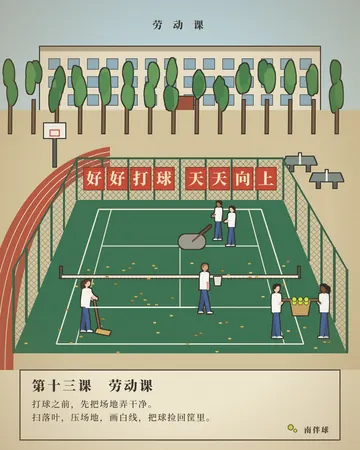
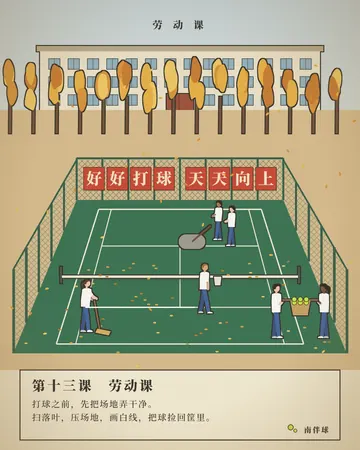
课本插画四季系列：精简场景（去跑道、篮球架、乒乓台），新增 184 春天、185 下雪了；182 改秋天
Claude-Session: https://claude.ai/code/session_014vi3eY4PQACXjZBSA9oy8y

diff --git a/marketing/textbook.py b/marketing/textbook.py
@@ -44,36 +44,45 @@ def lesson(p, no, title, lines, y=1110):
              f'<text x="990" y="{y + 188}" text-anchor="end" font-family="{SERIF}" font-weight="900" font-size="22" letter-spacing="4" fill="{INK}">南伴球</text>')
 
 
-def schoolyard(p, r, slogan_text='好好打球天天向上'):
-    """高机位远景的学校运动场：教学楼、白杨、红跑道弯道、篮球架、乒乓球台、
-    一块被围网围住的南伴绿网球场；八个大字挂在远端围网上，正对着看的人。
-    返回 (球场透视函数)：T(u, v) 把场地坐标 (u 0..1 左右, v 0..1 远近) 映射到画面。"""
+SEASON = {
+    'spring': dict(sky=('#C8E0EC', '#EEEAD4'), ground='#DCD2AC', trees=['#F2C2CC', '#F8DCE2', '#FFFFFF', '#A8D07A'], bare=False),
+    'summer': dict(sky=('#8EC4E8', '#E4ECDC'), ground='#D8C8A0', trees=['#2E6A3A', '#3E7A44', '#4E8A4E'], bare=False),
+    'autumn': dict(sky=('#C8D8E0', '#F0E2C0'), ground='#D8BC8C', trees=['#E8B040', '#D89030', '#F0C860', '#C8782A'], bare=False),
+    'winter': dict(sky=('#C8D0D8', '#EEF0F0'), ground='#F6F8F6', trees=[], bare=True),
+}
+
+
+def schoolyard(p, r, season='summer', slogan_text='好好打球天天向上'):
+    """高机位远景的学校网球场（只留教学楼、一排树、围网球场和八块标语牌，细节做足）。
+    season：spring / summer / autumn / winter。返回透视函数 T(u, v)。"""
     from lin import blob, ink
-    FY, NY, FL, FR, NL, NR = 600, 1060, 230, 850, 40, 1040          # 球场远边 / 近边
+    S = SEASON[season]
+    FY, NY, FL, FR, NL, NR = 600, 1060, 230, 850, 40, 1040
     T = lambda u, v: (FL + (FR - FL) * u + ((NL + (NR - NL) * u) - (FL + (FR - FL) * u)) * v, FY + (NY - FY) * v)
-    p.append('<defs><linearGradient id="sky_t" x1="0" y1="0" x2="0" y2="1"><stop offset="0" stop-color="#B8D4E0"/><stop offset="1" stop-color="#E8E4CC"/></linearGradient></defs>')
+    p.append(f'<defs><linearGradient id="sky_t" x1="0" y1="0" x2="0" y2="1"><stop offset="0" stop-color="{S["sky"][0]}"/><stop offset="1" stop-color="{S["sky"][1]}"/></linearGradient></defs>')
     p.append('<rect width="1080" height="1110" fill="url(#sky_t)"/>')
-    # 教学楼（远处一长条）
-    p.append(outlined('<rect x="120" y="150" width="840" height="190" fill="#EDE4CC"/><rect x="120" y="140" width="840" height="14" fill="#B8A88A"/>'))
+    # 教学楼：一排窗，正中一个门厅，屋檐一道线
+    p.append(outlined('<rect x="120" y="150" width="840" height="190" fill="#EDE4CC"/><rect x="110" y="138" width="860" height="16" fill="#B8A88A"/>'))
     for row in range(3):
         for col in range(14):
-            p.append(f'<rect x="{146 + col * 58}" y="{176 + row * 54}" width="34" height="32" fill="#8EB0C0" stroke="{INK}" stroke-width="1.5"/>')
-    p.append(outlined('<rect x="500" y="290" width="80" height="50" fill="#9A4A34"/>'))
-    # 地面
-    p.append('<path d="M0 330 L1080 330 L1080 1110 L0 1110Z" fill="#D8C8A0"/>')
-    # 白杨一排
+            if 6 <= col <= 7 and row == 2:
+                continue
+            p.append(f'<rect x="{146 + col * 58}" y="{176 + row * 54}" width="34" height="32" fill="#8EB0C0" stroke="{INK}" stroke-width="1.5"/><line x1="{163 + col * 58}" y1="{176 + row * 54}" x2="{163 + col * 58}" y2="{208 + row * 54}" stroke="{INK}" stroke-width="1"/>')
+    p.append(outlined('<rect x="500" y="282" width="80" height="58" fill="#9A4A34"/><rect x="536" y="282" width="2" height="58" fill="#5A2A1A"/>'))
+    if season == 'winter':
+        p.append('<rect x="110" y="132" width="860" height="10" rx="4" fill="#FFFFFF"/>')
+    p.append(f'<path d="M0 330 L1080 330 L1080 1110 L0 1110Z" fill="{S["ground"]}"/>')
+    # 一排树
     tr = ''
     for x in range(30, 1080, 70):
-        tr += ink([(x, 400), (x + 1, 300)], 7, '#7A5A3A', 1, (0, 0)) + ''.join(blob(r, x + r.uniform(-10, 10), 260 + r.uniform(-50, 40), 16, 40, r.choice(['#4E8A4E', '#3E7A44', '#5E9A56']), 1) for _ in range(3))
+        tr += ink([(x, 400), (x + 1, 290)], 7, '#6A4A30', 1, (0, 0))
+        if S['bare']:
+            tr += ''.join(ink([(x, 330 - k * 14), (x + d * 26, 300 - k * 18)], 3, '#6A4A30', 1, (0, .6)) for k in range(4) for d in (-1, 1))
+        else:
+            tr += ''.join(blob(r, x + r.uniform(-10, 10), 260 + r.uniform(-50, 40), 16, 40, r.choice(S['trees']), 1) for _ in range(3))
     p.append(outlined(tr))
-    # 红跑道的一段弯道（左边）+ 白线
-    p.append('<path d="M-60 1110 C-60 700 120 470 330 440 L330 500 C170 520 40 720 40 1110Z" fill="#B8503A"/>')
-    for k in range(1, 4):
-        p.append(f'<path d="M{-60 + k*25} 1110 C{-60 + k*25} {700 + k*5} {120 + k*12} {470 + k*15} 330 {440 + k*15}" stroke="#F4EED8" stroke-width="2" fill="none"/>')
-    # 篮球架（左上）、乒乓球台（右边）
-    p.append(outlined(f'<rect x="160" y="380" width="8" height="120" fill="#5A5A5A"/><rect x="132" y="370" width="64" height="44" fill="#F4F2EA"/><rect x="150" y="390" width="28" height="18" fill="none" stroke="{RED}" stroke-width="3"/>'))
-    for x, y in [(900, 470), (980, 520)]:
-        p.append(outlined(f'<path d="M{x - 40} {y} L{x + 40} {y} L{x + 50} {y + 24} L{x - 50} {y + 24}Z" fill="#7A8A84"/><rect x="{x - 3}" y="{y - 10}" width="6" height="34" fill="#F4F2EA"/><rect x="{x - 30}" y="{y + 24}" width="10" height="20" fill="#5A5A5A"/><rect x="{x + 20}" y="{y + 24}" width="10" height="20" fill="#5A5A5A"/>'))
+    if S['bare']:
+        p.append(''.join(f'<ellipse cx="{x + r.uniform(-12, 12):.0f}" cy="{r.uniform(250, 330):.0f}" rx="10" ry="3" fill="#FFFFFF"/>' for x in range(30, 1080, 70) for _ in range(2)))
     # 球场（南伴绿）+ 白线
     poly = ' '.join(f'{a:.0f},{b:.0f}' for a, b in [T(0, 0), T(1, 0), T(1, 1), T(0, 1)])
     p.append(f'<polygon points="{poly}" fill="{GREEN}"/>')
@@ -86,10 +95,11 @@ def schoolyard(p, r, slogan_text='好好打球天天向上'):
     for u in (.18, .82):
         L(u, .06, u, .94, 3)
     L(.12, .06, .88, .06); L(.12, .94, .88, .94); L(.18, .3, .82, .3, 3); L(.18, .7, .82, .7, 3); L(.5, .3, .5, .7, 3)
+    # 球网：网带 + 网眼 + 两根立柱
     (a, b), (c, d) = T(.06, .5), T(.94, .5)
-    p.append(outlined(f'<line x1="{a:.0f}" y1="{b:.0f}" x2="{c:.0f}" y2="{d:.0f}" stroke="#F4EED8" stroke-width="7"/><rect x="{a - 4:.0f}" y="{b - 30:.0f}" width="6" height="34" fill="#4A4A4A"/><rect x="{c - 2:.0f}" y="{d - 30:.0f}" width="6" height="34" fill="#4A4A4A"/>'))
-    p.append(f'<g opacity=".55">' + ''.join(f'<line x1="{a + (c - a) * k / 60:.0f}" y1="{b:.0f}" x2="{a + (c - a) * k / 60:.0f}" y2="{b + 16:.0f}" stroke="{INK}" stroke-width="1"/>' for k in range(61)) + '</g>')
-    # 围网：远端一面（挂标语）+ 两侧（透视收向远处）
+    p.append(f'<g opacity=".5">' + ''.join(f'<line x1="{a + (c - a) * k / 70:.0f}" y1="{b:.0f}" x2="{a + (c - a) * k / 70:.0f}" y2="{b + 18:.0f}" stroke="{INK}" stroke-width="1"/>' for k in range(71)) + f'<line x1="{a:.0f}" y1="{b + 9:.0f}" x2="{c:.0f}" y2="{d + 9:.0f}" stroke="{INK}" stroke-width="1"/></g>')
+    p.append(outlined(f'<line x1="{a:.0f}" y1="{b:.0f}" x2="{c:.0f}" y2="{d:.0f}" stroke="#F4EED8" stroke-width="7"/><rect x="{a - 4:.0f}" y="{b - 30:.0f}" width="6" height="50" fill="#4A4A4A"/><rect x="{c - 2:.0f}" y="{d - 30:.0f}" width="6" height="50" fill="#4A4A4A"/>'))
+    # 围网：远端一面 + 两侧
     FH = 120
     (fx1, fy), (fx2, _) = T(0, 0), T(1, 0)
     p.append(f'<rect x="{fx1:.0f}" y="{fy - FH}" width="{fx2 - fx1:.0f}" height="{FH}" fill="url(#mesh_t)" opacity=".75"/>')
@@ -104,7 +114,7 @@ def schoolyard(p, r, slogan_text='好好打球天天向上'):
         for k in range(1, 6):
             (px, py) = T(side, k / 5)
             p.append(f'<rect x="{px - 3:.0f}" y="{py - FH * (1 + 1.1 * k / 5):.0f}" width="{6 + 2 * k / 5:.0f}" height="{FH * (1 + 1.1 * k / 5):.0f}" fill="#2E5A44"/>')
-    # 远端围网上的八块红色标语牌
+    # 远端围网上的八块红色标语牌（用铁丝绑在网上）
     n = len(slogan_text)
     bw, gap, mid = 62, 8, 26
     total = n * bw + (n - 1) * gap + mid
@@ -112,7 +122,24 @@ def schoolyard(p, r, slogan_text='好好打球天天向上'):
     for i, ch in enumerate(slogan_text):
         x = x0 + i * (bw + gap) + (mid if i >= n // 2 else 0)
         y = fy - FH + 22
-        p.append(f'<rect x="{x:.0f}" y="{y:.0f}" width="{bw}" height="{bw + 6}" fill="{RED}" stroke="#7A2418" stroke-width="2"/>'
+        p.append(f'<rect x="{x + 2:.0f}" y="{y + 3:.0f}" width="{bw}" height="{bw + 6}" fill="#1A2A22" opacity=".25"/>'
+                 f'<rect x="{x:.0f}" y="{y:.0f}" width="{bw}" height="{bw + 6}" fill="{RED}" stroke="#7A2418" stroke-width="2"/>'
                  f'<text x="{x + bw / 2:.0f}" y="{y + bw * .82:.0f}" text-anchor="middle" font-family="{SERIF}" font-weight="900" font-size="{bw * .76:.0f}" fill="#F7E9C8">{ch}</text>'
-                 f'<circle cx="{x + 6:.0f}" cy="{y + 6:.0f}" r="2" fill="#7A2418"/><circle cx="{x + bw - 6:.0f}" cy="{y + 6:.0f}" r="2" fill="#7A2418"/>')
+                 f'<path d="M{x + 4:.0f} {y + 2:.0f} l4 -6 M{x + bw - 4:.0f} {y + 2:.0f} l-4 -6" stroke="#5A5A5A" stroke-width="1.6"/>')
+        if season == 'winter':
+            p.append(f'<rect x="{x - 2:.0f}" y="{y - 5:.0f}" width="{bw + 4}" height="8" rx="4" fill="#FFFFFF"/>')
+    if season == 'winter':
+        p.append(f'<rect x="{fx1:.0f}" y="{fy - FH - 12}" width="{fx2 - fx1:.0f}" height="6" rx="3" fill="#FFFFFF"/>')
     return T
+
+
+def falling(p, r, season, n=60):
+    """季节的飘落物：春天花瓣、秋天落叶、冬天雪。"""
+    for _ in range(n):
+        x, y = r.uniform(0, 1080), r.uniform(120, 1100)
+        if season == 'spring':
+            p.append(f'<ellipse cx="{x:.0f}" cy="{y:.0f}" rx="5" ry="3" transform="rotate({r.uniform(0, 180):.0f} {x:.0f} {y:.0f})" fill="{r.choice(["#F2C2CC", "#FFFFFF"])}" stroke="{INK}" stroke-width=".8"/>')
+        elif season == 'autumn':
+            p.append(f'<ellipse cx="{x:.0f}" cy="{y:.0f}" rx="6" ry="3" transform="rotate({r.uniform(0, 180):.0f} {x:.0f} {y:.0f})" fill="{r.choice(["#E8B040", "#D89030", "#F0C860"])}"/>')
+        elif season == 'winter':
+            p.append(f'<circle cx="{x:.0f}" cy="{y:.0f}" r="{r.uniform(2, 5):.1f}" fill="#FFFFFF" opacity=".9"/>')

diff --git a/marketing/posters/p185_textbook_winter.py b/marketing/posters/p185_textbook_winter.py
@@ -1,0 +1,47 @@
+from lib import *
+from lin import blob
+from people import person
+from textbook import DEFS, PAPER, INK, RED, BLUE, GREEN, outlined, finish, lesson, schoolyard, falling
+
+META = dict(
+    id=185, slug='textbook-winter', title='下雪了', lines=['下雪了，', '大家一起把球场扫干净。'],
+    style=['课本插画', '年代感', '远景', '冬天'], tone='浅色', demo=False,
+    concept='课本插画、高机位远景，冬天：树枝光秃秃挂着雪，标语牌顶上积了一层白；球场远半边还盖着雪，近半边已经扫出了南伴绿；穿红蓝棉袄的孩子们推着雪铲、拿着扫帚，一串脚印穿过雪地；角落里堆了个雪人，手里拿着一支球拍',
+    use='冬天 / 一起出力；年代感、回忆共鸣、好笑',
+)
+
+
+def svg():
+    r = random.Random(185)
+    p = [f'<defs>{DEFS}</defs>', f'<rect width="1080" height="1350" fill="{PAPER}"/>']
+    T = schoolyard(p, r, 'winter')
+    snow = ' '.join(f'{a:.0f},{b:.0f}' for a, b in [T(0, 0), T(1, 0), T(1, .58), T(.8, .62), T(.6, .56), T(.4, .63), T(.2, .57), T(0, .6)])
+    p.append(f'<polygon points="{snow}" fill="#F8FAF8"/>')                                                    # 远半边还盖着雪
+    p.append(f'<polygon points="{snow}" fill="url(#dots_t)" opacity=".06"/>')
+    (a, b), (c, d) = T(.06, .5), T(.94, .5)
+    p.append(f'<line x1="{a:.0f}" y1="{b:.0f}" x2="{c:.0f}" y2="{d:.0f}" stroke="#FFFFFF" stroke-width="9"/>')
+    for k in range(14):                                                                                        # 雪地上的一串脚印
+        x, y = T(.3 + k * .012, .08 + k * .035)
+        p.append(f'<ellipse cx="{x + (5 if k % 2 else -5):.0f}" cy="{y:.0f}" rx="4" ry="2.4" fill="#C8D0D4"/>')
+    kids = [(.22, .66, 'grip', 1, 0, 1, '#C8402E', 'short'), (.44, .7, 'teach', 1, 2, 0, '#3E5E9A', 'pony'),
+            (.66, .68, 'grip', -1, 1, 2, '#2F6E4E', 'short'), (.8, .86, 'hold', -1, 3, 3, '#C8402E', 'bob')]
+    for u, v, pose, f, sk, hr, coat, hs in kids:
+        x, y = T(u, v)
+        sc = .28 + .2 * v
+        p.append(outlined(person(x, y, sc, pose, f, sk, hr, coat, '#2A3A4A', shoe='#2A2622', sleeve='long', hairstyle=hs)))
+        if pose == 'grip':                                                                                     # 雪铲
+            p.append(outlined(f'<line x1="{x + 50*sc*f:.0f}" y1="{y - 210*sc:.0f}" x2="{x + 110*sc*f:.0f}" y2="{y - 4:.0f}" stroke="#8A6A3A" stroke-width="4"/><path d="M{x + 90*sc*f:.0f} {y:.0f} l{50*f} 0 l{-4*f} -16 l{-42*f} 0Z" fill="#9AA0A4"/>'))
+        if pose == 'teach':                                                                                    # 扫帚
+            p.append(outlined(f'<line x1="{x + 60*sc:.0f}" y1="{y - 210*sc:.0f}" x2="{x + 95*sc:.0f}" y2="{y - 6:.0f}" stroke="#8A6A3A" stroke-width="4"/><path d="M{x + 80*sc:.0f} {y - 10:.0f} l40 8 l-6 12 l-40 -8Z" fill="#D8B060"/>'))
+    sx, sy = 140, 1050                                                                                         # 雪人拿着球拍
+    p.append(outlined(f'<circle cx="{sx}" cy="{sy - 40}" r="40" fill="#FFFFFF"/><circle cx="{sx}" cy="{sy - 104}" r="28" fill="#FFFFFF"/>'
+                      f'<rect x="{sx - 26}" y="{sy - 140}" width="52" height="10" fill="{RED}"/><rect x="{sx - 16}" y="{sy - 166}" width="32" height="28" fill="{RED}"/>'
+                      f'<line x1="{sx + 30}" y1="{sy - 60}" x2="{sx + 70}" y2="{sy - 110}" stroke="#6A4A30" stroke-width="4"/><line x1="{sx + 70}" y1="{sy - 110}" x2="{sx + 84}" y2="{sy - 140}" stroke="#2E3438" stroke-width="4"/>'
+                      f'<ellipse cx="{sx + 92}" cy="{sy - 162}" rx="15" ry="22" transform="rotate(20 {sx + 92} {sy - 162})" fill="none" stroke="#2E3438" stroke-width="4"/>'))
+    p.append(f'<circle cx="{sx - 10}" cy="{sy - 108}" r="3" fill="{INK}"/><circle cx="{sx + 10}" cy="{sy - 108}" r="3" fill="{INK}"/><path d="M{sx} {sy - 100} l12 4 l-12 2Z" fill="#E8843A"/>')
+    p.append(f'<circle cx="{sx}" cy="{sy - 40}" r="9" fill="#C6EA3D" stroke="{INK}" stroke-width="1.6"/>')
+    falling(p, r, 'winter', 90)
+    p.append(f'<text x="540" y="86" text-anchor="middle" font-family="{SERIF}" font-weight="900" font-size="30" letter-spacing="12" fill="{INK}">下 雪 了</text>')
+    lesson(p, '二十', '下雪了', ['下雪了。大家一起把球场上的雪扫干净，', '雪人也拿起了球拍。'])
+    finish(p)
+    return page(''.join(p))

diff --git a/marketing/posters/p182_textbook_labour.py b/marketing/posters/p182_textbook_labour.py
@@ -1,11 +1,11 @@
 from lib import *
 from people import person
-from textbook import DEFS, PAPER, INK, RED, BLUE, GREEN, outlined, finish, lesson, schoolyard
+from textbook import DEFS, PAPER, INK, RED, BLUE, GREEN, outlined, finish, lesson, schoolyard, falling
 
 META = dict(
     id=182, slug='textbook-labour', title='劳动课', lines=['打球之前，', '先把场地弄干净。'],
     style=['课本插画', '年代感', '远景', '南伴绿'], tone='浅色', demo=False,
-    concept='六七十年代课本插画的画法，高机位远景：同一个学校运动场，围网上挂着「好好打球　天天向上」；南伴绿的场地上上劳动课——有人扫落叶、两个人推着石头压路滚、有人提着石灰桶画一条画了一半的白线、两个人抬着一筐球往场边走',
+    concept='六七十年代课本插画的画法，高机位远景，秋天：白杨黄了，叶子落了一场；同一个学校的网球场，围网上挂着「好好打球　天天向上」；南伴绿的场地上上劳动课——有人扫落叶、两个人推着石头压路滚、有人提着石灰桶画一条画了一半的白线、两个人抬着一筐球往场边走',
     use='年代感 / 一起搭把手；回忆共鸣',
 )
 
@@ -13,7 +13,7 @@ META = dict(
 def svg():
     r = random.Random(182)
     p = [f'<defs>{DEFS}</defs>', f'<rect width="1080" height="1350" fill="{PAPER}"/>']
-    T = schoolyard(p, r)
+    T = schoolyard(p, r, 'autumn')
     for _ in range(60):                                                                                        # 场上的落叶
         u, v = r.uniform(.02, .98), r.uniform(.4, 1)
         x, y = T(u, v)
@@ -38,6 +38,7 @@ def svg():
     p.append(outlined(f'<line x1="{x1 + 40*s1:.0f}" y1="{y1 - 248*s1:.0f}" x2="{x2 - 40*s2:.0f}" y2="{y2 - 248*s2:.0f}" stroke="#8A6A3A" stroke-width="5"/><path d="M{(x1 + x2) / 2 - 30:.0f} {y1 - 244*s1:.0f} l60 0 l-8 44 l-44 0Z" fill="#C8A060"/>'))
     for i in range(6):
         p.append(f'<circle cx="{(x1 + x2) / 2 - 18 + (i % 3) * 18:.0f}" cy="{y1 - 248*s1 + 8 - (i // 3) * 10:.0f}" r="7" fill="#C6EA3D" stroke="{INK}" stroke-width="1.4"/>')
+    falling(p, r, 'autumn', 40)
     p.append(f'<text x="540" y="86" text-anchor="middle" font-family="{SERIF}" font-weight="900" font-size="30" letter-spacing="12" fill="{INK}">劳 动 课</text>')
     lesson(p, '十三', '劳动课', ['打球之前，先把场地弄干净。', '扫落叶，压场地，画白线，把球捡回筐里。'])
     finish(p)

diff --git a/marketing/posters/p184_textbook_spring.py b/marketing/posters/p184_textbook_spring.py
@@ -1,0 +1,33 @@
+from lib import *
+from people import person
+from textbook import DEFS, PAPER, INK, RED, BLUE, GREEN, outlined, finish, lesson, schoolyard, falling
+
+META = dict(
+    id=184, slug='textbook-spring', title='春天', lines=['开学了，', '操场边的桃花开了。'],
+    style=['课本插画', '年代感', '远景', '春天'], tone='浅色', demo=False,
+    concept='课本插画、高机位远景，春天：教学楼前的一排树开满粉白的花，花瓣飘进球场；开学第一节体育课，老师站在前面领操，孩子们在网前排成两排伸展手臂；围网上还是那八块红牌子',
+    use='开学季 / 春天的第一场球；年代感、回忆共鸣',
+)
+
+
+def svg():
+    r = random.Random(184)
+    p = [f'<defs>{DEFS}</defs>', f'<rect width="1080" height="1350" fill="{PAPER}"/>']
+    T = schoolyard(p, r, 'spring')
+    for row, v in enumerate((.72, .9)):                                                                       # 两排孩子伸展
+        for k in range(5):
+            u = .26 + k * .12
+            x, y = T(u, v)
+            sc = (.28 + .2 * v)
+            p.append(outlined(person(x, y, sc, 'five', 1 if k % 2 else -1, (k + row) % 4, (k * 3 + row) % 4, '#FFFFFF', BLUE, shoe='#FFFFFF', sleeve='short', hairstyle=['short', 'pony', 'bob', 'short'][(k + row) % 4])))
+    x, y = T(.5, .58)                                                                                          # 领操的老师（面朝孩子）
+    p.append(outlined(person(x, y, .34, 'five', -1, 0, 0, '#F2EADA', '#6A6A6A', shoe='#2A2622', sleeve='long', hairstyle='short')))
+    bx, by = T(.86, .92)
+    p.append(f'<path d="M{bx - 24:.0f} {by - 30:.0f} l48 0 l-6 30 l-36 0Z" fill="#C8A060" stroke="{INK}" stroke-width="2"/>')    # 场边一筐球
+    for i in range(5):
+        p.append(f'<circle cx="{bx - 14 + (i % 3) * 14:.0f}" cy="{by - 34 - (i // 3) * 10:.0f}" r="7" fill="#C6EA3D" stroke="{INK}" stroke-width="1.4"/>')
+    falling(p, r, 'spring', 50)
+    p.append(f'<text x="540" y="86" text-anchor="middle" font-family="{SERIF}" font-weight="900" font-size="30" letter-spacing="12" fill="{INK}">春　天</text>')
+    lesson(p, '一', '春天', ['开学了，操场边的桃花开了。', '第一节体育课，先做操，再打球。'])
+    finish(p)
+    return page(''.join(p))

diff --git a/marketing/posters/p181_textbook_pe.py b/marketing/posters/p181_textbook_pe.py
@@ -5,7 +5,7 @@ from textbook import DEFS, PAPER, INK, RED, BLUE, GREEN, outlined, finish, lesso
 META = dict(
     id=181, slug='textbook-pe', title='体育课', lines=['好好打球，', '天天向上。'],
     style=['课本插画', '年代感', '远景', '南伴绿'], tone='浅色', demo=False,
-    concept='六七十年代课本插画的画法，高机位远景：从教学楼上往下看整个学校运动场——远处教学楼和一排白杨，左边红跑道的弯道和篮球架，右边水泥乒乓球台；中间一块被围网围住的南伴绿网球场，远端围网上挂着八块红色标语牌「好好打球　天天向上」；场上几个白衬衫蓝裤子的孩子在上体育课，老师站在网边吹哨，场边长凳上坐着等轮换的同学',
+    concept='六七十年代课本插画的画法，高机位远景：从教学楼上往下看——远处教学楼和一排白杨；中间一块被围网围住的南伴绿网球场，远端围网上挂着八块红色标语牌「好好打球　天天向上」；场上几个白衬衫蓝裤子的孩子在上体育课，老师站在网边吹哨，场边长凳上坐着等轮换的同学',
     use='年代感 / 回忆共鸣；开学季、节日、社群活动',
 )
 
@@ -13,7 +13,7 @@ META = dict(
 def svg():
     r = random.Random(181)
     p = [f'<defs>{DEFS}</defs>', f'<rect width="1080" height="1350" fill="{PAPER}"/>']
-    T = schoolyard(p, r)
+    T = schoolyard(p, r, 'summer')
     def kid(u, v, pose, f, sk=0, hr=0, hs='short', rk=None, s=1.0, top='#FFFFFF', bot=BLUE):
         x, y = T(u, v)
         sc = (.28 + .2 * v) * s

diff --git a/.claude/skills/nanbanqiu-poster/品味手册.md b/.claude/skills/nanbanqiu-poster/品味手册.md
@@ -13,7 +13,7 @@
 - 同一场地一天四个时间的组图（61–63，用 `marketing/four_times.py`）没被挑剔，可继续。
 - 小球拟人只在**有故事**时可以；不为可爱而可爱。
 
-- 11-08 学林风眠：要学**画法和气象**，不要搬他的题材 / 元素（照搬秋林、白鹭、仕女、静物被否）。第二版（发球抛歪 / 夜场 / 影子 / 跟墙打）又被说要「不只看到球和体育，更看到自然、天地、人的精神世界；不沉郁顿挫，而是光亮饱满」→ 110–113：金合欢、海边、大树、草原，暖白纸底、亮色、人小天地大。用户要求底稿都保留：首版 114–117、第二版 118–121（深绿装裱 `frame_dark`）。用户认可的方向：「天地开阔、明亮，人很小、心里很宽，主角是天地和季节」→ 122–125 借各家方法（王希孟青绿山水、Hockney 平涂硬光、广重晨空晕染 + 近景框景、吴冠中点线）。11-08 用户：122、124、125「都非常棒」，**123 Hockney 平涂不喜欢**（太「设计」、没有意境，别再做纯平涂硬边）。126–129 借老树画画「诗画配」：竖排五言打油诗（`lin.poem()`，不带标点）+ 留白 + 季节 + 小人，好笑不说教。130–133 宋代美学 × 现代设计（民族的就是世界的、大俗大雅）：团扇 + 马远一角、院体花鸟折枝（网带当花枝）、汝窑盏 + 博物馆展签、马远《水图》满纸线 + 一个点。11-08 用户评 130–133「小气了，缺宋代山水、宫墙、云天的格局和整体观」→ 宋代题材要**整幅大格局**（巨嶂山水、宫阙云天、宫墙长街），不做一角小品、单件器物；134–136。用户：「把山画得更有骨力，鹤画得更精细。不错」→ `marketing/song.py`：`ridge_mountain`（棱角轮廓 + 明暗块面 + 浓墨骨线 + 雨点皴）、`crane`（工笔丹顶鹤）、`roof`（金瓦庑殿顶）；137–139 千里江山、宫城俯瞰、仙山楼阁。用户：「功夫在画外，取原本不是名画里的场景，创造新的境界」→ 140–143 从打球人亲眼见过的瞬间取景（积水里的天、舷窗下的球场、露水上的脚印、满地的球像星星），不再借名画构图。144–147 汉风（`marketing/han.py`：汉白玉石纹、浅浮雕 `relief`、画像石人物 `figure`、云气纹）：画像石浮雕带、瓦当「日日有球」、双阙、画像砖上下两栏。飘带别从腰后拖（像尾巴）。用户：144、147「非常好」→ 148–151 汉画像小人 × 现代日常（电车路牌「球场」、五点五十九、咖啡热气画成云气纹、后备箱）；新增姿势 stand/sit/sip/bend。用户：浮雕风「枯燥、刻意、呆板，有点不舒服」，要「古人活在当下」+ 现代平面设计、多元多彩 → 152–155：汉画像小人做平面彩色剪影（`han.flat` + `POP` 色板），网格打破、撞色色块、印花图案、负形落日。以后汉风别再做浮雕。156–159「奥运风」：只借运动会的设计语言（原创几何图标 `marketing/picto.py`、领奖台、奖牌、大号比分、彩虹速度条），**不用五环、火炬、吉祥物、「奥运」字样和官方图标**；挂带别配成某国国旗色。160–161 顶级运动品牌风（`marketing/athlete.py`）：黑底硬光 + 单侧轮廓光的人物剪影 + Black 粗体超大字、人站在字前 + 一句最短的话「再来一球。」+ 全画面只有球是荧光色；反色版铺品牌荧光黄绿。**不用勾标、Just Do It、品牌名**。用户：160–161「不喜欢，太简单粗暴」→ 别再做硬光大字的运动品牌风。162 借优衣库式的诚实日常：暖白底平铺 11 件打球家当，编号 + 一行小字（有小幽默：袜子打完可能是红的、香蕉第二盘前吃），安静、整齐、留白。11-08 用户给了两张优衣库场景图，要「借鉴其优秀的思想和经验，而不是用 AI 去模仿生成真人」→ 163–166 场景插画（`marketing/people.py` 不画五官的现代插画人 + `scene_common.py` 虚化围网 / 长凳）：抓拍「一起」的瞬间、晴天斜光和墙上的影子、干净背景 + 生活小道具、人物居中偏右、左下细黑体标题 + 一句业务规则里的功能说明、右下小号落款（不压深色条）。167–170 用设计系统把场景图收成一个系列（`marketing/series.py`：颜色 token 60% 暖白沙色 / 30% 品牌绿系 / 10% 荧光黄绿只给球和行动提示；统一网格、三级字号、左上眉标、行动提示带荧光下划线、右下落款 + 01/04 编号；光一律从左上来；不用纯黑用带绿的墨色；四张按用户旅程排）。做系列图先定 token 和版式，再画画面。171–173 日本电影海报质感（`marketing/film.py`）：过曝柔光、褪色、颗粒、漏光；人很小、什么都没发生；竖排细宋体片名 + 一行旁白；底部仿演职员表的小字写南伴球的小细节（「冰　放在球包里两个小时」「回程　大概是逆风」）。不借任何真实电影的片名和画面。11-08 用户：「颜色都太浅了，南伴绿完全没体现，一味地浅跟网球的热情和运动风脱离」→ 171–173 已重调：大面积南伴绿（场地 / 遮雨棚 / 河堤）、饱和的天和海、去掉褪色蒙层、标题用南伴深绿、绿底上的小字用浅色、荧光球仍是最亮的点。**任何风格都要让南伴绿占大面积，不做通篇浅灰浅粉。** 用户发来是枝裕和《海街日记》法国版海报作参照 → 174「最后一颗球」：整张虚化的深南伴绿夜树影、上方居中大宋体片名 + 英文 + 三行演职员表小字（电筒电量 12%、剪辑：找到了就回家）、最底下四个人蹲在草里，手机电筒是唯一的暖光（遮罩只照亮光附近的手和脸），荧光球在草里发亮。又发来《步履不停》海报 → 175「打着打着」：白纸底、照片框右上出血左留白条、浓绿树荫小路上四个不同年纪的球友正面合影（`people.front()`）、照片下大片留白 + 标语 + 手写感大片名（粗黑体 + 位移滤镜 + 每字微旋转）+ 简介 + 名字排 + 最小号演职员小字。又发《爱乐之城》海报，要「借鉴风格和设计思维，不模仿人物场景」→ 176「今晚有球」：南伴绿暮色天幕 + 星 + 一线暖金地平线 + 城市灯海；一根泛光灯做竖向配重；全画面唯一的互补暖色 = 抛进星星里的荧光球；细体大片名、「主演：你　一位水平相近的陌生人」、底部瘦长演职员表写球局功能。杨德昌风（177–178）：城市里的现代人 + 框中框 / 玻璃倒影 + 冷日光灯里的温度——一栋旧公寓三十扇窗各过各的日子、其中一扇有人收拾明天的球包（铁窗、冷气机是细节）；下班电车车窗上城市光带和人的倒影叠在一起。王家卫风（179–180，`marketing/wkw.py`）：横向拖影光带 + 抽帧残影 + 倾斜画框 + 霓虹绿（和南伴绿天然合拍）+ 精确的时间数字 + 中英字幕式独白；台词全部原创（三公分、四十分钟），不借电影台词。六七十年代课本插画（181–183，`marketing/textbook.py`）：泛黄纸 + 黑线勾边（膨胀描边滤镜）+ 平涂少色 + 网点；墙上红底方块大字「好好打球　天天向上」（用户点名的八个字）；课文框「第十二课　体育课」；黑板报（黑板绿 = 南伴绿）。红领巾、旗帜等政治元素不画，只留校园记忆。用户：「视角拉大拉远，弥补人物表情的不足；八个字应该在球场四周的围栏上，符合国内学校运动场实际；自然合理又有设计感，基于现实超越现实」→ `textbook.schoolyard()` 高机位远景：教学楼、白杨、红跑道弯道、篮球架、乒乓球台、围网球场，八块红色标语牌挂在远端围网上。**人物画不好时，就拉远镜头，让场景和结构说话。**
+- 11-08 学林风眠：要学**画法和气象**，不要搬他的题材 / 元素（照搬秋林、白鹭、仕女、静物被否）。第二版（发球抛歪 / 夜场 / 影子 / 跟墙打）又被说要「不只看到球和体育，更看到自然、天地、人的精神世界；不沉郁顿挫，而是光亮饱满」→ 110–113：金合欢、海边、大树、草原，暖白纸底、亮色、人小天地大。用户要求底稿都保留：首版 114–117、第二版 118–121（深绿装裱 `frame_dark`）。用户认可的方向：「天地开阔、明亮，人很小、心里很宽，主角是天地和季节」→ 122–125 借各家方法（王希孟青绿山水、Hockney 平涂硬光、广重晨空晕染 + 近景框景、吴冠中点线）。11-08 用户：122、124、125「都非常棒」，**123 Hockney 平涂不喜欢**（太「设计」、没有意境，别再做纯平涂硬边）。126–129 借老树画画「诗画配」：竖排五言打油诗（`lin.poem()`，不带标点）+ 留白 + 季节 + 小人，好笑不说教。130–133 宋代美学 × 现代设计（民族的就是世界的、大俗大雅）：团扇 + 马远一角、院体花鸟折枝（网带当花枝）、汝窑盏 + 博物馆展签、马远《水图》满纸线 + 一个点。11-08 用户评 130–133「小气了，缺宋代山水、宫墙、云天的格局和整体观」→ 宋代题材要**整幅大格局**（巨嶂山水、宫阙云天、宫墙长街），不做一角小品、单件器物；134–136。用户：「把山画得更有骨力，鹤画得更精细。不错」→ `marketing/song.py`：`ridge_mountain`（棱角轮廓 + 明暗块面 + 浓墨骨线 + 雨点皴）、`crane`（工笔丹顶鹤）、`roof`（金瓦庑殿顶）；137–139 千里江山、宫城俯瞰、仙山楼阁。用户：「功夫在画外，取原本不是名画里的场景，创造新的境界」→ 140–143 从打球人亲眼见过的瞬间取景（积水里的天、舷窗下的球场、露水上的脚印、满地的球像星星），不再借名画构图。144–147 汉风（`marketing/han.py`：汉白玉石纹、浅浮雕 `relief`、画像石人物 `figure`、云气纹）：画像石浮雕带、瓦当「日日有球」、双阙、画像砖上下两栏。飘带别从腰后拖（像尾巴）。用户：144、147「非常好」→ 148–151 汉画像小人 × 现代日常（电车路牌「球场」、五点五十九、咖啡热气画成云气纹、后备箱）；新增姿势 stand/sit/sip/bend。用户：浮雕风「枯燥、刻意、呆板，有点不舒服」，要「古人活在当下」+ 现代平面设计、多元多彩 → 152–155：汉画像小人做平面彩色剪影（`han.flat` + `POP` 色板），网格打破、撞色色块、印花图案、负形落日。以后汉风别再做浮雕。156–159「奥运风」：只借运动会的设计语言（原创几何图标 `marketing/picto.py`、领奖台、奖牌、大号比分、彩虹速度条），**不用五环、火炬、吉祥物、「奥运」字样和官方图标**；挂带别配成某国国旗色。160–161 顶级运动品牌风（`marketing/athlete.py`）：黑底硬光 + 单侧轮廓光的人物剪影 + Black 粗体超大字、人站在字前 + 一句最短的话「再来一球。」+ 全画面只有球是荧光色；反色版铺品牌荧光黄绿。**不用勾标、Just Do It、品牌名**。用户：160–161「不喜欢，太简单粗暴」→ 别再做硬光大字的运动品牌风。162 借优衣库式的诚实日常：暖白底平铺 11 件打球家当，编号 + 一行小字（有小幽默：袜子打完可能是红的、香蕉第二盘前吃），安静、整齐、留白。11-08 用户给了两张优衣库场景图，要「借鉴其优秀的思想和经验，而不是用 AI 去模仿生成真人」→ 163–166 场景插画（`marketing/people.py` 不画五官的现代插画人 + `scene_common.py` 虚化围网 / 长凳）：抓拍「一起」的瞬间、晴天斜光和墙上的影子、干净背景 + 生活小道具、人物居中偏右、左下细黑体标题 + 一句业务规则里的功能说明、右下小号落款（不压深色条）。167–170 用设计系统把场景图收成一个系列（`marketing/series.py`：颜色 token 60% 暖白沙色 / 30% 品牌绿系 / 10% 荧光黄绿只给球和行动提示；统一网格、三级字号、左上眉标、行动提示带荧光下划线、右下落款 + 01/04 编号；光一律从左上来；不用纯黑用带绿的墨色；四张按用户旅程排）。做系列图先定 token 和版式，再画画面。171–173 日本电影海报质感（`marketing/film.py`）：过曝柔光、褪色、颗粒、漏光；人很小、什么都没发生；竖排细宋体片名 + 一行旁白；底部仿演职员表的小字写南伴球的小细节（「冰　放在球包里两个小时」「回程　大概是逆风」）。不借任何真实电影的片名和画面。11-08 用户：「颜色都太浅了，南伴绿完全没体现，一味地浅跟网球的热情和运动风脱离」→ 171–173 已重调：大面积南伴绿（场地 / 遮雨棚 / 河堤）、饱和的天和海、去掉褪色蒙层、标题用南伴深绿、绿底上的小字用浅色、荧光球仍是最亮的点。**任何风格都要让南伴绿占大面积，不做通篇浅灰浅粉。** 用户发来是枝裕和《海街日记》法国版海报作参照 → 174「最后一颗球」：整张虚化的深南伴绿夜树影、上方居中大宋体片名 + 英文 + 三行演职员表小字（电筒电量 12%、剪辑：找到了就回家）、最底下四个人蹲在草里，手机电筒是唯一的暖光（遮罩只照亮光附近的手和脸），荧光球在草里发亮。又发来《步履不停》海报 → 175「打着打着」：白纸底、照片框右上出血左留白条、浓绿树荫小路上四个不同年纪的球友正面合影（`people.front()`）、照片下大片留白 + 标语 + 手写感大片名（粗黑体 + 位移滤镜 + 每字微旋转）+ 简介 + 名字排 + 最小号演职员小字。又发《爱乐之城》海报，要「借鉴风格和设计思维，不模仿人物场景」→ 176「今晚有球」：南伴绿暮色天幕 + 星 + 一线暖金地平线 + 城市灯海；一根泛光灯做竖向配重；全画面唯一的互补暖色 = 抛进星星里的荧光球；细体大片名、「主演：你　一位水平相近的陌生人」、底部瘦长演职员表写球局功能。杨德昌风（177–178）：城市里的现代人 + 框中框 / 玻璃倒影 + 冷日光灯里的温度——一栋旧公寓三十扇窗各过各的日子、其中一扇有人收拾明天的球包（铁窗、冷气机是细节）；下班电车车窗上城市光带和人的倒影叠在一起。王家卫风（179–180，`marketing/wkw.py`）：横向拖影光带 + 抽帧残影 + 倾斜画框 + 霓虹绿（和南伴绿天然合拍）+ 精确的时间数字 + 中英字幕式独白；台词全部原创（三公分、四十分钟），不借电影台词。六七十年代课本插画（181–183，`marketing/textbook.py`）：泛黄纸 + 黑线勾边（膨胀描边滤镜）+ 平涂少色 + 网点；墙上红底方块大字「好好打球　天天向上」（用户点名的八个字）；课文框「第十二课　体育课」；黑板报（黑板绿 = 南伴绿）。红领巾、旗帜等政治元素不画，只留校园记忆。用户：「视角拉大拉远，弥补人物表情的不足；八个字应该在球场四周的围栏上，符合国内学校运动场实际；自然合理又有设计感，基于现实超越现实」→ `textbook.schoolyard()` 高机位远景：教学楼、白杨、红跑道弯道、篮球架、乒乓球台、围网球场，八块红色标语牌挂在远端围网上。**人物画不好时，就拉远镜头，让场景和结构说话。** 用户：「哈哈，非常好，但元素有点错杂，太多了反而不好，把细节做好就够了，半截跑道突兀去掉」→ 场景只留教学楼、一排树、围网球场、八块标语牌，细节做足（窗格、门厅、网眼、绑牌子的铁丝、牌子的投影）；做成四季系列 `schoolyard(season=)` + `falling()`：春 184 做操 / 夏 181 体育课 / 秋 182 劳动课 / 冬 185 扫雪 + 拿球拍的雪人。**元素宁少勿杂。**
 
 **明确不喜欢（点名，记原因）**
 - 37「一个人，是半…」、38「球，就是求一个人」、40「隔着一张网…」：**煽情、刻意、喊口号、讲道理**；拆字、哲理金句、「A，才B」。

diff --git a/进度记录.md b/进度记录.md
@@ -30,7 +30,7 @@
 | 第一至第七批（数据库、通知、后台、可运行原型、安全隐私、地区扩展、场边上线准备） | ✅ 过程见历史档案 |
 | 第八批（场边前台接入、后台并入、联合测试、真机清单） | ✅ 代码全部完成；`真机清单.md` 的真机项等你测（拍照相册和真推送前台还没做，等第 7 轮） |
 | 5g-1 / 5g-2 前台手机号验证码登录（Supabase Auth） | ✅ 真号码联调通过；只在 nanbanqiu.app / pages.dev 域名启用真登录；登录**只保留手机号**（11-02 你定的） |
-| **5g-3 建库 + 接口层 + 前台接入** | ✅ 正式库 `nanbanqiu-au`（悉尼，158 张表全开 RLS）、接口层（server/api，规格 tests/spec/api_spec.md）、定时 Worker `nanbanqiu-notify`、前台第 1–6 轮接入（球场 / 登录与资料 / 球局读写改 / 通知 + 埋点 + 推送 / 邀约 · 聊天 · 举报屏蔽 · 赛后）全部上线。**未做**：第 7 轮场边 + 照片上传（上线后按反馈排）。上线前外部项见下。过程原文在 `进度记录_历史.md` 末尾 C 节。 |
+| **5g-3 建库 + 接口层 + 前台接入** | ✅ 正式库 `nanbanqiu-au`（悉尼，160 张表全开 RLS）、接口层（server/api，规格 tests/spec/api_spec.md）、定时 Worker `nanbanqiu-notify`、前台第 1–6 轮接入（球场 / 登录与资料 / 球局读写改 / 通知 + 埋点 + 推送 / 邀约 · 聊天 · 举报屏蔽 · 赛后）全部上线。**未做**：第 7 轮场边 + 照片上传（上线后按反馈排）。上线前外部项见下。过程原文在 `进度记录_历史.md` 末尾 C 节。 |
 | **多人协作（11-07 ✅ 已合并）** | 协作体系 #59/#66/#67/#69/#70 全部进 main；协作者 MDD1102（Write）阶段 0 完成（#68）。**「我的球拍」（11-07）**：A1 #81 · A2 #82 · A3 #83 · B #86 已合并（两库迁移 `20261107_user_rackets` / `_wipe_rackets` 已执行，db-parity ✅，所有者两端真机测过没问题）。**产品库 + 统计 + 埋点方案 4 条全部批准**（#60，所有者 11-07 18:25）：ADR #94 待审合 → #88 A4 → #89 A5（去掉「暂定」）→ 所有者执行迁移 `20261108_racket_catalog` / `_racket_stats` + db-parity → B2 → M1（权限，合并前独立复核）→ M2；**#71（导出加球拍，OK）和 #72（隐私文案，采用协作者建议）要在 PR-D 打开开关前合**。#91 业务规则夜间文案待审。
 **协作机制（11-07 合并）**：#85（草稿 PR 不跑浏览器测试、Dependabot 每月一批、规则预算、每周指标）· #87（所有者不在时：提案+静默期、叠加链按一个在制品、链长≤5、每层≤200 行）已合并；#84 已关。所有者同意的方向：A/B 自动放行、C/D 只审迁移 SQL 与权限、E（正式库/部署/密钥/规则文件/隐私文案）永远所有者。**#90 协作流程 V2**（协作者做：`ci-gate` 总检查 → 必需批准数降 0 只留 Code Owners；`tools/stack_update.sh` 叠加 PR 自动更新）。**测试库迁移选 A**：协作者写手动触发 workflow（只在 main 跑、只检出迁移文件、需所有者批准），GitHub `staging` 环境已设好（审批人 SMG562、仅 main、含 `NBQ_DB_URL_STAGING` postgres 账号串）；协作者的预览站测试号由所有者另配。**安全设置（所有者 11-07 做完）**：无 Cloudflare 仓库 Secret；测试库连接串已移进 `production` / `staging` 环境（db-parity ✅ 验证）；Workflow 权限只读；协作者是个人仓库的 Collaborator（只有写权限）。dependabot #73–#80 待并入每月一批后处理。**「我的球拍」#60 已 OK 开工**：叫「我的球拍」· 球员卡可见（分阶段，开关默认关）· 注销时删除 · 下载我的数据本期不带（欠账 #71，打开开关前补）。PR-A1 由协作者先做（迁移 + 函数 + pg 测试，不需要所有者执行）；隐私文案草稿 #72（**打开开关前再合**）。**分支保护已开（11-07）**：main 规则集加了「必须走 PR + 1 个批准 + Code Owners 审」，管理员可绕过；**没设必需状态检查**（只改文档的 PR 不触发 tests / tests-fast，设了会永远卡「Expected」，测试由 pr_merge.sh 核对）；visual-baseline 不能选 main 触发；他的迁移要在预览站看效果时，才由所有者在测试库、再在正式库执行 |
 
@@ -106,7 +106,7 @@
 | functions/ · worker/ · notify-worker/ | Pages Functions（api、g、p）· 备用 Workers 入口 · 通知定时 Worker |
 | sw.js · manifest.webmanifest | 离线壳 + 推送（VERSION nbq-v7）· PWA 安装配置 |
 | tools/ | build / lint / precommit / site · gate.sh 上线闸门 · db_parity.sh 两库对比 · smoke_prod.mjs 冒烟 · sync_files.sh + sync_verify.sh 同步并回读 · worker_version.mjs + deploy_notify.mjs 发送程序指纹与部署 |
-| marketing/ | 宣传物料（158 张海报）；流程只看 `.claude/skills/nanbanqiu-poster/SKILL.md`；预览站 /materials.html |
+| marketing/ | 宣传物料（160 张海报）；流程只看 `.claude/skills/nanbanqiu-poster/SKILL.md`；预览站 /materials.html |
 | tests/ | 测试体系（§7、tests/README.md） |
 | 业务规则.md · 开发规矩.md · 出事处理手册.md · 地区扩展设计.md · 真机清单.md · 隐私清单.md · 上线加固清单.md | 业务规则速查 · 工程规矩的来历与命令 · 出事与回滚（§6）· 地区扩展 · 真机测试清单 · 隐私清单 · 一期上线加固 L1–L12（11-06） |
 | 进度记录_历史.md | 已完成批次的过程、变更日志、被移出的长段原文 |

diff --git a/.claude/skills/nanbanqiu-poster/SKILL.md b/.claude/skills/nanbanqiu-poster/SKILL.md
@@ -1,11 +1,11 @@
 ---
 name: nanbanqiu-poster
-description: 做南伴球的宣传海报、朋友圈 / 小红书配图、品牌视觉、宣传物料时使用。已有 158 张海报和一套出图流程（marketing/），新设计不用重新摸索品牌、不用通读旧代码。
+description: 做南伴球的宣传海报、朋友圈 / 小红书配图、品牌视觉、宣传物料时使用。已有 160 张海报和一套出图流程（marketing/），新设计不用重新摸索品牌、不用通读旧代码。
 ---
 
 # 南伴球宣传物料（海报）
 
-**第 0 步：先读同目录的 `品味手册.md`**（用户口味、点名不喜欢的类型、自检清单）。已有 158 张里 37 / 38 / 40（口号 / 拆字 / 哲理）和 66 / 67（借别的 App 界面）是反面教材；68–72（网球冷知识 × 小心思）是用户最近点名的好样板。
+**第 0 步：先读同目录的 `品味手册.md`**（用户口味、点名不喜欢的类型、自检清单）。已有 160 张里 37 / 38 / 40（口号 / 拆字 / 哲理）和 66 / 67（借别的 App 界面）是反面教材；68–72（网球冷知识 × 小心思）是用户最近点名的好样板。
 
 **先别读旧海报和 lib.py，按下面流程走，一张新海报约 60 行代码、几轮就能定稿。**
 成品都在预览站「宣传物料」页（/materials.html，手机能看、能存大图），推送到 main 自动更新。
